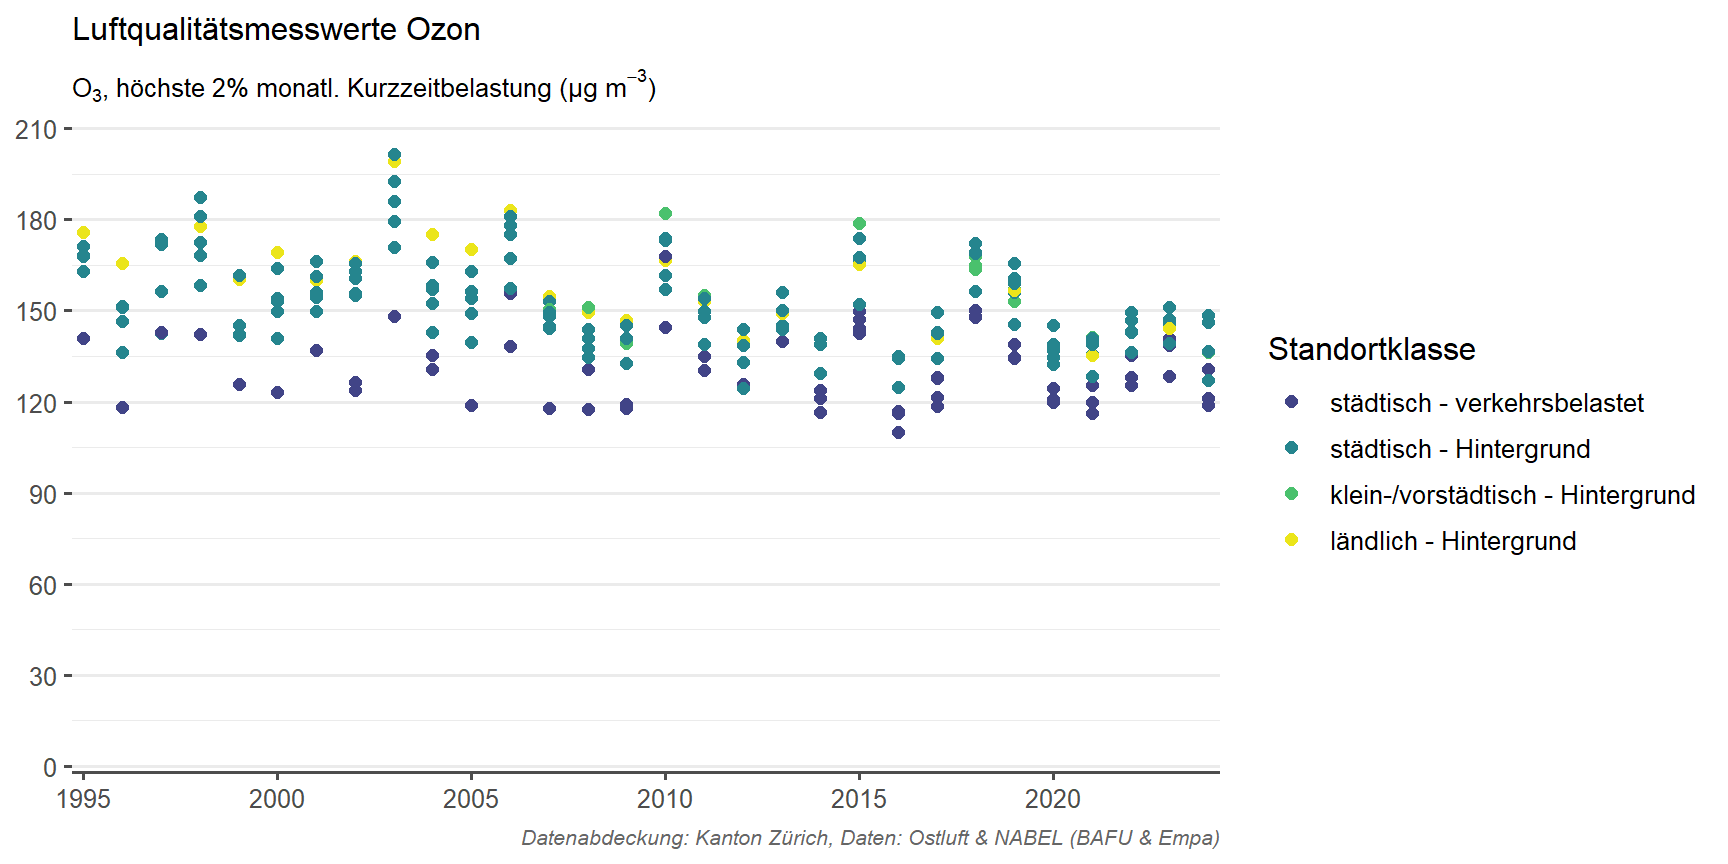
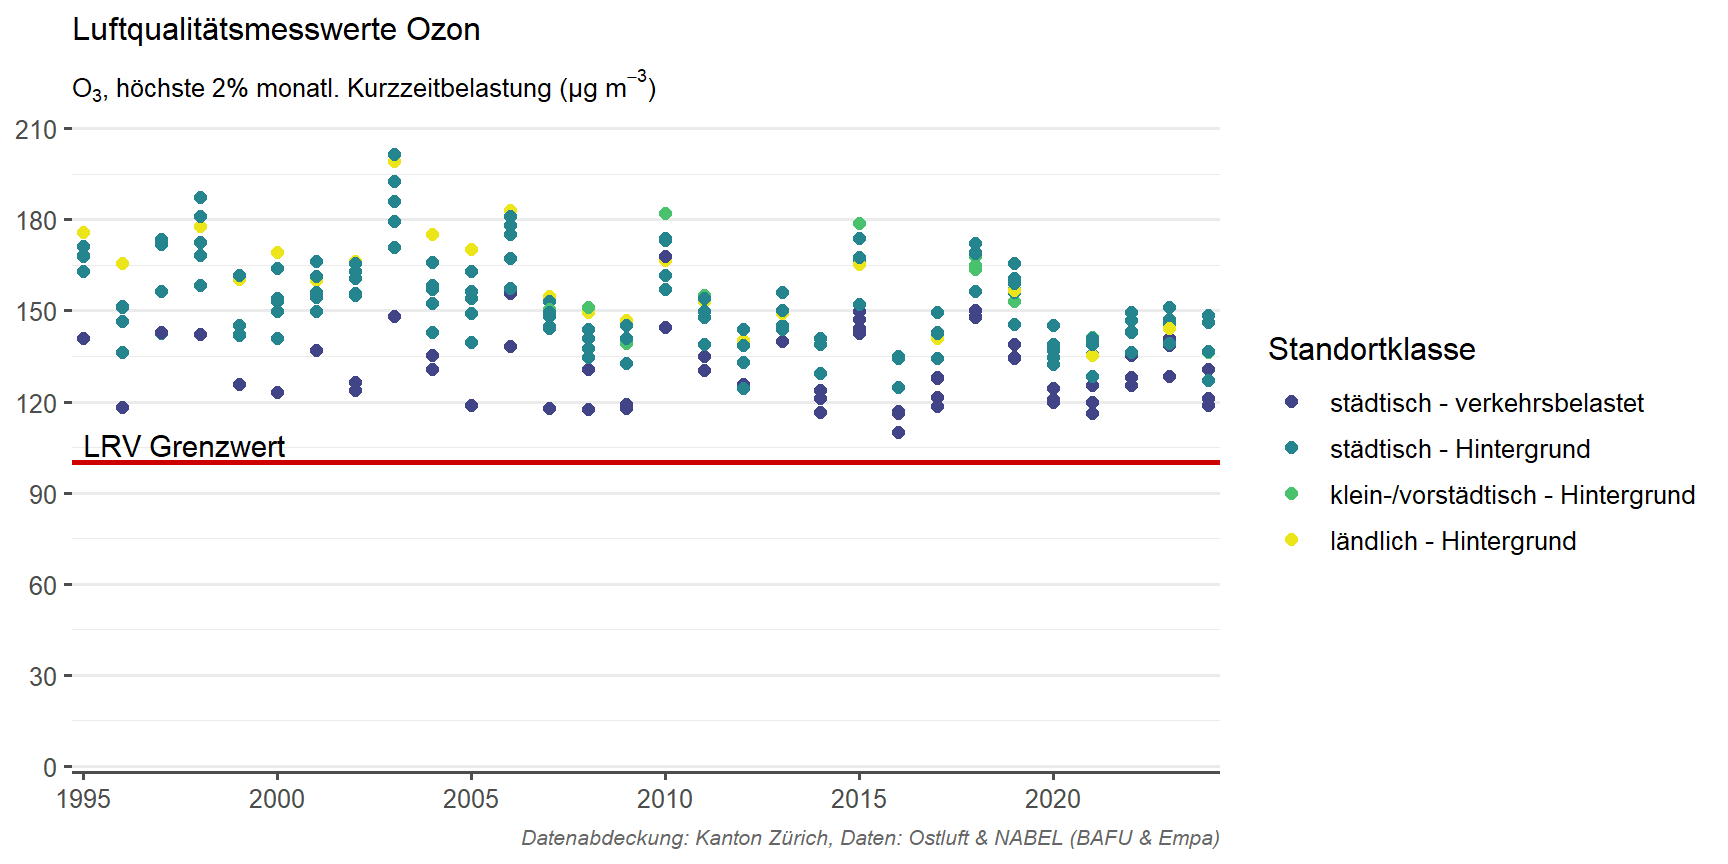
fixed plotting O3 thresholds

Changed region(s): [[0.0312, 0.5, 0.7188, 0.5625]]

diff --git a/docs/Belastungsverteilung.html b/docs/Belastungsverteilung.html
@@ -3512,7 +3512,7 @@ window.document.addEventListener("DOMContentLoaded", function (event) {
 });
 </script>
 </div> <!-- /content -->
-<script>var lightboxQuarto = GLightbox({"loop":false,"openEffect":"zoom","closeEffect":"zoom","selector":".lightbox","descPosition":"bottom"});
+<script>var lightboxQuarto = GLightbox({"selector":".lightbox","descPosition":"bottom","closeEffect":"zoom","loop":false,"openEffect":"zoom"});
 (function() {
   let previousOnload = window.onload;
   window.onload = () => {

diff --git a/docs/Schadstoffausstoss.html b/docs/Schadstoffausstoss.html
@@ -1117,7 +1117,7 @@ window.document.addEventListener("DOMContentLoaded", function (event) {
 });
 </script>
 </div> <!-- /content -->
-<script>var lightboxQuarto = GLightbox({"selector":".lightbox","closeEffect":"zoom","descPosition":"bottom","openEffect":"zoom","loop":false});
+<script>var lightboxQuarto = GLightbox({"openEffect":"zoom","closeEffect":"zoom","loop":false,"descPosition":"bottom","selector":".lightbox"});
 (function() {
   let previousOnload = window.onload;
   window.onload = () => {

diff --git a/docs/Gesundheitsfolgen.html b/docs/Gesundheitsfolgen.html
@@ -874,7 +874,7 @@ window.document.addEventListener("DOMContentLoaded", function (event) {
 });
 </script>
 </div> <!-- /content -->
-<script>var lightboxQuarto = GLightbox({"openEffect":"zoom","closeEffect":"zoom","selector":".lightbox","loop":false,"descPosition":"bottom"});
+<script>var lightboxQuarto = GLightbox({"selector":".lightbox","openEffect":"zoom","loop":false,"descPosition":"bottom","closeEffect":"zoom"});
 (function() {
   let previousOnload = window.onload;
   window.onload = () => {

diff --git a/docs/Luftqualität.html b/docs/Luftqualität.html
@@ -868,7 +868,7 @@ window.document.addEventListener("DOMContentLoaded", function (event) {
 });
 </script>
 </div> <!-- /content -->
-<script>var lightboxQuarto = GLightbox({"descPosition":"bottom","openEffect":"zoom","closeEffect":"zoom","loop":false,"selector":".lightbox"});
+<script>var lightboxQuarto = GLightbox({"closeEffect":"zoom","loop":false,"selector":".lightbox","openEffect":"zoom","descPosition":"bottom"});
 (function() {
   let previousOnload = window.onload;
   window.onload = () => {
